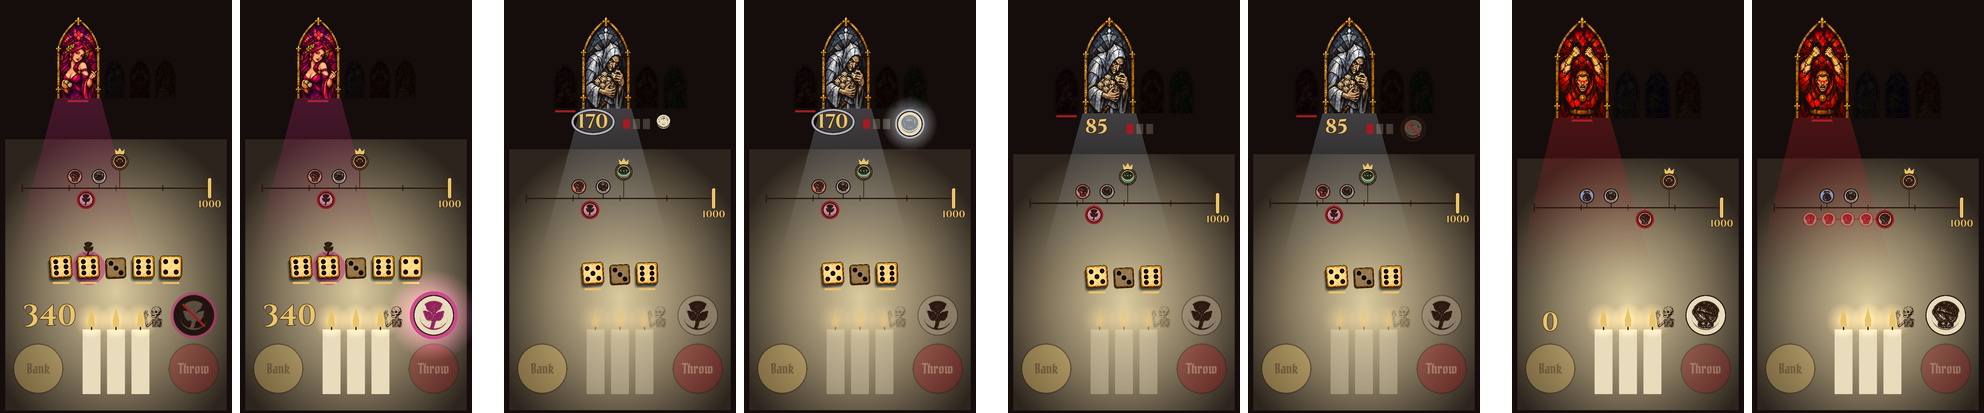
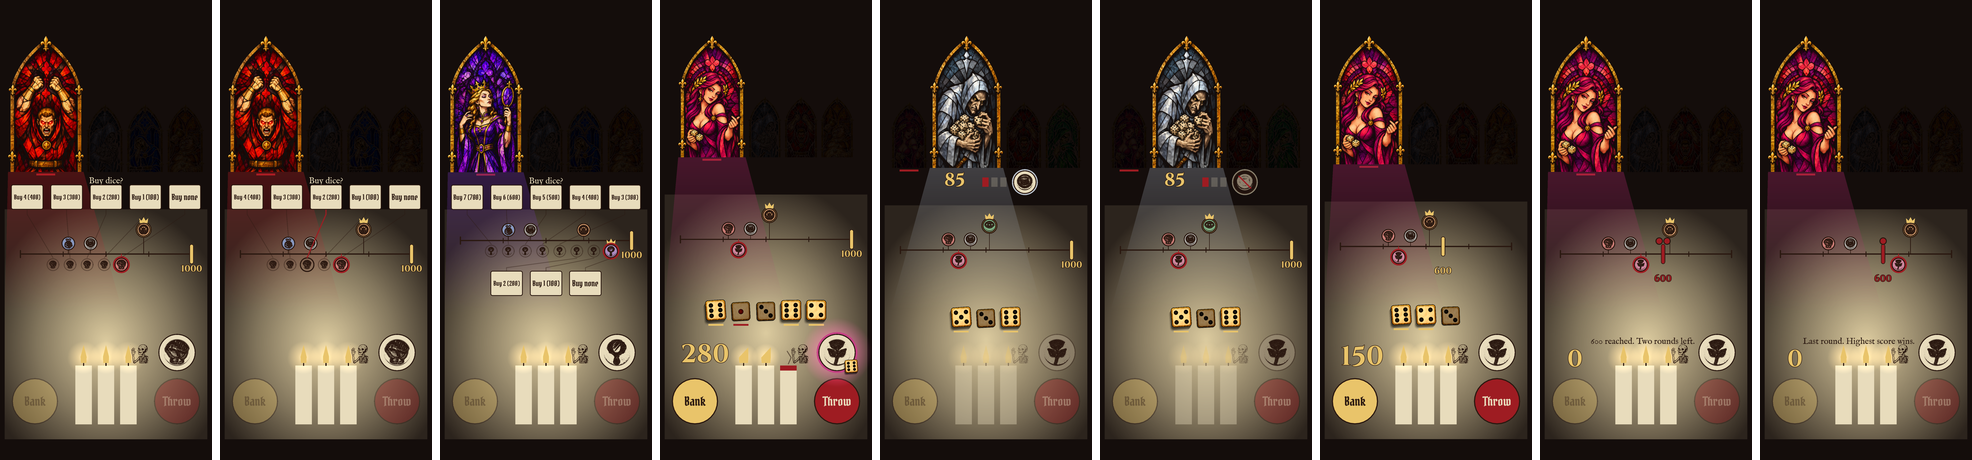
review: packet for REPLY 10 (call at 600, ready glow, buy screen, rival seal, swap sim); REPLY 6-7-9 packet archived

diff --git a/Docs/review/latest/packet.md b/Docs/review/latest/packet.md
@@ -1,27 +1,23 @@
-# Packet: REPLY 6, 7, 9 (seal tell, bot pacing, buy preview, sims)
-**Built (table, local):**
-- 6.1: bot turns get a beat before the throw and one on the result, and the seal's beat now runs in real seconds. A 4-seat bot turn went from 2.4 to 3.9 s (`tests/bot_pace.gd`).
-- 6.2: a firing seal blazes in its Sin's colour, pulses, and sends out a ring. This works for mine and for a rival's. On a rival's turn, its seal sits beside its stake.
-- 9 a, b: when buying, the banked stake has already landed on the track, so no stake number is shown. Each buy choice leaves a ghost of my marker where it would put me; pressing the choice lights its ghost.
-
-**Sim only:** `proposals.md` (borrowed seal, Master's penultimate round, buy from bank, far-behind offers, profiles, outliers with seeds). The code is in `sim/`; game code is unchanged.
-
-**Suite:** all 10 pass. **Text audit:** 4 of 4 clean at se and max.
-
-**Sheet** (se; before | after pairs, left to right):
-- my seal firing;
-- a rival's seal firing;
-- the rival seal on its turn;
-- buying (stake gone, ghost markers).
-
-**Not shown:** no clip. The flare and the pacing only play in the live game, so they need you to play.
-
-**Commits:** 6897fbc, 1eb7ccb, b7850b3, 4e442cf, f7b02c6, cc28beb, 68efa6b. No push.
+# Packet: REPLY 10 (call at 600, ready glow, buy screen, rival seal, swap sim)
+**Built (local, not pushed):** 2e19875 swap sim, plus the once-a-round fix (one offer a round for the whole table) · e617d98 ready halo, rival seal rim (bone once spent) · 7dcfb2b buy row in track order, ghosts hollow and faint, a line from each button to its ghost · cefdfd0 Master's call at 600 (table only, Rules.V5 unchanged).
+**Shots (std, full size, in this folder):** table_buy, table_buy_press, table_buy_many, table_power_ready, table_rival_seal_idle/_spent, table_master_post/_call/_final. `sheet.png` shows all nine side by side.
+**Text audit (std):** 7 of 9 clean. On _call and _final, the red "600" under the post has 2.1:1 contrast against its outline (4.5 needed).
+**Seen in the shots:** the buy tie lines cross the rival markers and the seat cone. The "600 reached" / "Last round" line runs over the candle flames and touches the skeleton. On _call, the post's pips touch the leader's stalk.
+**Swap sim** (seed 1; 20000 mixed games; 4000 per odd profile; Sin win % range; Envy; rounds; final margin):
+- base: 21.2-31.5 · Envy 31.5 · 4.53 rounds · margin 407
+- swap free, every turn: 16.0-48.9 · Envy 48.9 · 4.57 · 429
+- swap mark, every turn: 17.7-45.4 · Envy 45.4 · 4.70 · 423
+- swap free, once a round: 19.6-35.7 · Envy 35.7 · 4.53 · 413
+- swap mark, once a round: 20.0-34.9 · Envy 34.9 · 4.55 · 412
+- borrow (charges 3), once a round, for reference: 21.9-32.3 · Envy 32.3 · 4.12 · 468
+- Profiles barely move. Odd-seat Novice 18.4 base → 18.6-19.2, Forgetter 11.4 → 11.0-12.4, Banker 18.8 → 18.6-19.2.
+- Why: Envy's power copies a rival, so trading its seal away costs nothing, and every Envy pair tops the list (48-57%). Every other Sin loses 2-7 points.
+**Still open:** the Master's win line "{win}" still reads 1000. Under the call, ai/bot_policy.gd still plays to the WIN_SCORE 1000 heuristics (core/ai, needs your OK). run_all.sh reports a test as ok if it prints FAILED without a SCRIPT ERROR.
 
 **Questions**
-1. Borrowed seal: games get shorter (4.5 to 3.7 rounds) and margins wider, and Forgetter and Novice fall further behind. Recommend: park it, and give Sins variety another way (e.g. a second power each Sin owns).
-2. Master's call vs a higher target: a call at 600 gives 5.0 rounds and 18% comebacks; a 1250 target gives 5.4 rounds and 13% comebacks. Recommend: prototype the call at 600 on the table next.
-3. Under the call, the trailing seat enters the final round further behind (762 vs 559) and wins it less (3.9% vs 6.8%). Recommend: accept it, since comebacks happen earlier, in the penultimate round.
-4. Buy from bank changes almost nothing (buys 1.65 to 1.49, every other number within 1 point). Recommend: keep the current rule; the screen fix covers the confusion.
-5. Forgetter is the worst profile everywhere (11-14%), mostly from unused seals. Recommend: a seal that glows when it can fire. That one is a UI fix, not a rules fix.
-6. Envy+Banker reaches 40%, and Greed+Banker 42-45% under the call. Recommend: look at Envy's copy and Greed's multiplier once the call is chosen.
+1. Swap: park it like the borrow? Rec: park. It only feeds Envy, and no profile gains.
+2. Buy tie lines cross rival markers: stop each line at the track instead of running it to the ghost? Rec: yes.
+3. Call text over the candles: move the Master's line up above the dice band? Rec: yes.
+4. "600" under the post: bone with a dark outline, to pass contrast? Rec: yes.
+5. Bots under the call: teach bot_policy to play to the called round, not 1000? Rec: yes, with your OK for ai/.
+6. Rival seal at rest (_idle): readable now without competing with the stake? Rec: judge it in play on TestFlight.

diff --git a/Docs/review/archive/2026-11-15-reply6-7-9/packet.md b/Docs/review/archive/2026-11-15-reply6-7-9/packet.md
@@ -1,0 +1,27 @@
+# Packet: REPLY 6, 7, 9 (seal tell, bot pacing, buy preview, sims)
+**Built (table, local):**
+- 6.1: bot turns get a beat before the throw and one on the result, and the seal's beat now runs in real seconds. A 4-seat bot turn went from 2.4 to 3.9 s (`tests/bot_pace.gd`).
+- 6.2: a firing seal blazes in its Sin's colour, pulses, and sends out a ring. This works for mine and for a rival's. On a rival's turn, its seal sits beside its stake.
+- 9 a, b: when buying, the banked stake has already landed on the track, so no stake number is shown. Each buy choice leaves a ghost of my marker where it would put me; pressing the choice lights its ghost.
+
+**Sim only:** `proposals.md` (borrowed seal, Master's penultimate round, buy from bank, far-behind offers, profiles, outliers with seeds). The code is in `sim/`; game code is unchanged.
+
+**Suite:** all 10 pass. **Text audit:** 4 of 4 clean at se and max.
+
+**Sheet** (se; before | after pairs, left to right):
+- my seal firing;
+- a rival's seal firing;
+- the rival seal on its turn;
+- buying (stake gone, ghost markers).
+
+**Not shown:** no clip. The flare and the pacing only play in the live game, so they need you to play.
+
+**Commits:** 6897fbc, 1eb7ccb, b7850b3, 4e442cf, f7b02c6, cc28beb, 68efa6b. No push.
+
+**Questions**
+1. Borrowed seal: games get shorter (4.5 to 3.7 rounds) and margins wider, and Forgetter and Novice fall further behind. Recommend: park it, and give Sins variety another way (e.g. a second power each Sin owns).
+2. Master's call vs a higher target: a call at 600 gives 5.0 rounds and 18% comebacks; a 1250 target gives 5.4 rounds and 13% comebacks. Recommend: prototype the call at 600 on the table next.
+3. Under the call, the trailing seat enters the final round further behind (762 vs 559) and wins it less (3.9% vs 6.8%). Recommend: accept it, since comebacks happen earlier, in the penultimate round.
+4. Buy from bank changes almost nothing (buys 1.65 to 1.49, every other number within 1 point). Recommend: keep the current rule; the screen fix covers the confusion.
+5. Forgetter is the worst profile everywhere (11-14%), mostly from unused seals. Recommend: a seal that glows when it can fire. That one is a UI fix, not a rules fix.
+6. Envy+Banker reaches 40%, and Greed+Banker 42-45% under the call. Recommend: look at Envy's copy and Greed's multiplier once the call is chosen.
